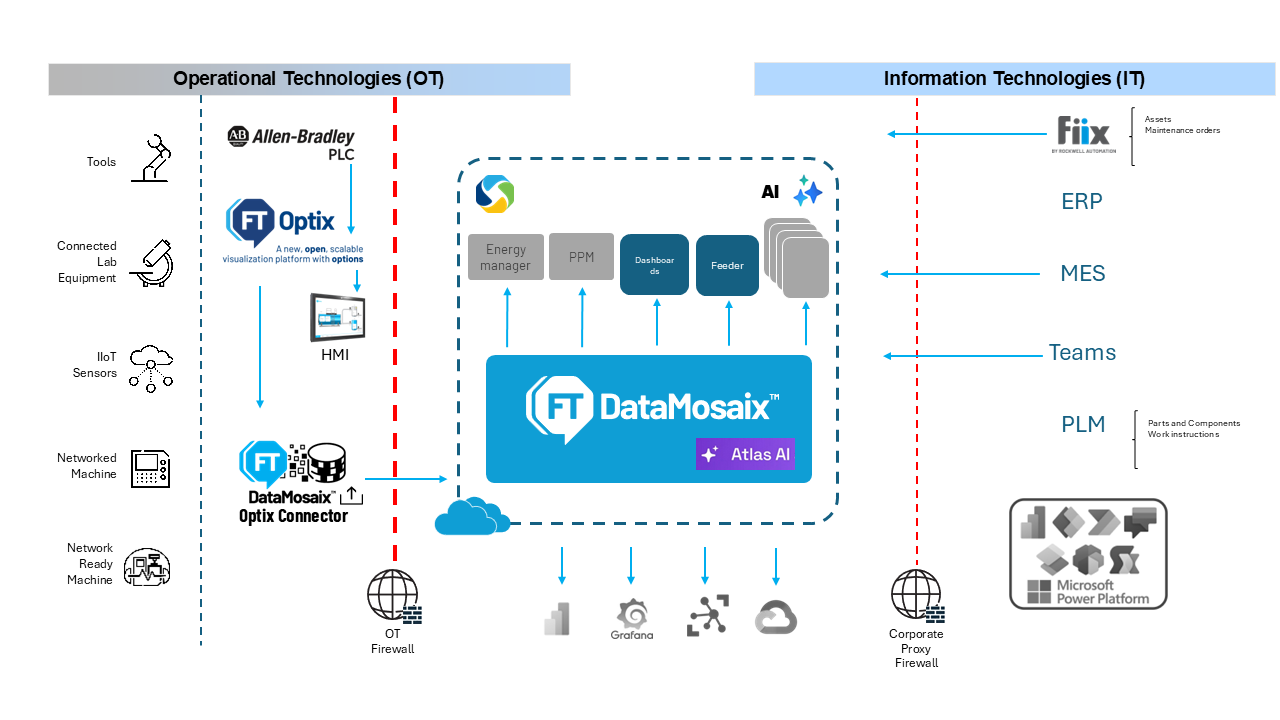
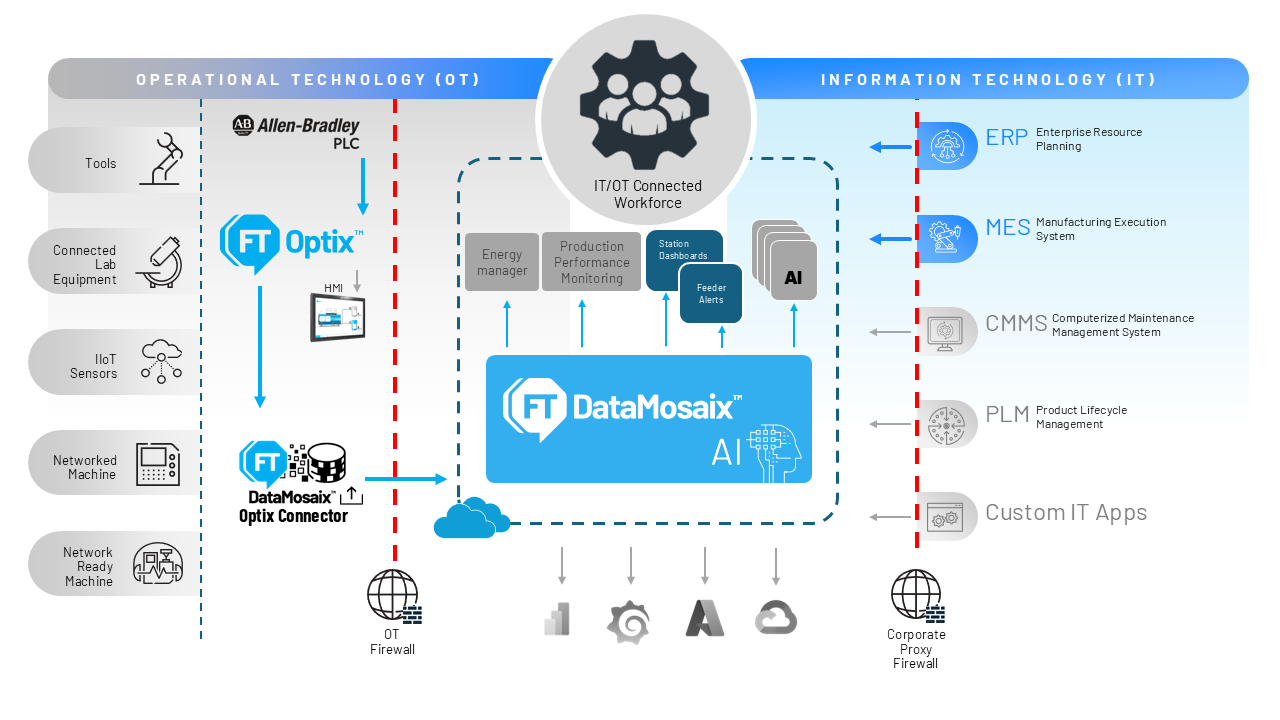
finished modal feature

diff --git a/src/components/LaunchpadSections/Overview2.tsx b/src/components/LaunchpadSections/Overview2.tsx
@@ -43,10 +43,50 @@ const ScalableDigitalSolutions: React.FC<{ title: string; imageSrc: string; poin
                 We started with a proof-of-value at Milwaukee’s 100C contactor line where we collected, analyzed and pushed data to the Cloud using OptixEdge Advanced Edge Gateway and FactoryTalk Optix.
             </> 
         },
-        2: { title: 'Enterprise IT/OT Convergence', description: 'Details about Enterprise IT/OT Convergence.' },
-        3: { title: 'AI Readiness Strategy', description: 'Details about AI Readiness Strategy.' },
-        4: { title: 'Industrial DataOps + AI Implementation', description: 'Details about Industrial DataOps + AI Implementation.' },
-        5: { title: 'Global Scale-Up', description: 'Details about Global Scale-Up.' },
+        2: { 
+            title: 'Enterprise IT/OT Convergence', 
+            description: <>
+                While edge devices provide insights for critical decision-making, OT data is often unstructured, fragmented, proprietary, and not easily integrated with IT enterprise architectures.
+                <br /><br />
+                Using FactoryTalk DataMosaix we brought IT, OT and engineering technology data together which enables the convergence of OT data from the factory floor with IT data in the cloud. This leads to data-driven decision-making that can impact the entire value chain.
+            </> 
+        },
+        3: { title: 'AI Readiness Strategy', description: <>
+            Manufacturers are finding that success in AI starts with
+            the right foundation-products with native AI and a
+            professional services team that has capabilities in
+            strategy, use case prioritization, data architecture,
+            implementation, and scalability. <br></br><br></br>
+
+            We enabled AI use cases by driving company-wide 
+            strategic alignment. <br></br><br></br>
+        </>
+         },
+        4: { title: 'Industrial DataOps + AI Implementation', description: 
+            <>
+            By using industrial internet of things (IIoT), machine learning, predictive
+            analytics and generative AI to collect and analyze data from production
+            systems, manufacturers can automate repetitive tasks, optimize resource and
+            energy usage, empower workers and improve productivity. <br></br>
+
+            We enabled moving toward autonomy with Industrial AI and data science by 
+            making data available, meaningful, useful and valuable. <br></br>
+            </>
+        },
+        5: { title: 'Global Scale-Up', description: 
+            <>
+            Recent research shows that just 25% of Industry 4.0 use cases are fully rolled
+            out or used extensively at manufacturers today. <br></br>
+
+            A true digital strategy and plan require a comprehensive, integrated yet
+            practical approach, combining new technology, skills and capabilities
+            supported by effective organizational change management. <br></br>
+
+            We leveraged our proven value-first approach, human-centric organizational
+            change management and our rapid results methodology to deliver successful
+            global scale-up of digital transformation initiatives like the 100C contactor line. <br></br>
+            </>
+         },
     };
 
     const closeModal = () => {
@@ -126,7 +166,7 @@ const ScalableDigitalSolutions: React.FC<{ title: string; imageSrc: string; poin
                         `}
                     </style>
                     <div className="
-                        relative w-full max-w-4xl max-h-[90%] mx-auto mb-28
+                        relative w-full max-w-7xl max-h-[100%] mx-auto ml-4 mr-4
                         transition-all duration-300
                         scale-100 opacity-100
                         animate-modal-in
@@ -149,28 +189,75 @@ const ScalableDigitalSolutions: React.FC<{ title: string; imageSrc: string; poin
                                     <span className="sr-only">Close modal</span>
                                 </button>
                             </div>
-                            <div className="p-6 md:p-8">
-                                {selectedPoint != 1 &&(
-                                    <div className="flex items-start gap-6 text-xl">
-                                        {circleData[selectedPoint as keyof typeof circleData].description}
-                                    </div>
-                                )}
+                            <div className="p-6">
                                 {selectedPoint === 0 && (
-                                    <div className="mt-4">
+                                    <div>
+                                        <div className="flex items-start gap-6 lg:text-xl xl:text-2xl 2xl:text-3xl">
+                                            {circleData[selectedPoint as keyof typeof circleData].description}
+                                        </div>
                                         <img src="/discover.png" alt="Discover Illustration" className="max-w-full h-auto" />
                                     </div>
                                 )}
                                 {selectedPoint === 1 && (
-                                    <div className="flex flex-row items-center mt-4">
+                                    <div className="flex flex-row items-center">
                                         <div className="w-3/4">
-                                            <p className="flex items-start gap-6 text-xl text-left">
+                                            <div className="flex items-start lg:text-xl xl:text-2xl 2xl:text-3xl text-left">
                                                 {circleData[selectedPoint as keyof typeof circleData].description}
-                                            </p>
+                                            </div>
                                         </div>
                                         <div className="w-1/4 flex justify-center">
                                             <img src="/pop1.png" alt="Enable Data Illustration" className="max-w-full h-auto" />
                                         </div>
                                     </div>
+                                )}
+                                {selectedPoint === 2 && (
+                                    <div className="flex flex-row items-center">
+                                        <div className="w-3/4">
+                                            <div className="flex items-start lg:text-xl xl:text-2xl 2xl:text-3xl text-left">
+                                                {circleData[selectedPoint as keyof typeof circleData].description}
+                                            </div>
+                                        </div>
+                                        <div className="w-1/4 flex justify-center">
+                                            <img src="/enterprise.png" alt="Enterprise Illustration" className="max-w-full h-auto" />
+                                        </div>
+                                    </div>
+                                )}
+                                {selectedPoint === 3 && (
+                                    <div className="flex flex-row items-center">
+                                        <div className="w-3/4">
+                                            <div className="flex items-start lg:text-xl xl:text-2xl 2xl:text-3xl text-left">
+                                                {circleData[selectedPoint as keyof typeof circleData].description}
+                                            </div>
+                                        </div>
+                                        <div className="w-1/4 flex justify-center">
+                                            <img src="/ai.png" alt="AI Illustration" className="max-w-full h-auto" />
+                                        </div>
+                                    </div>
+                                )}
+                                {selectedPoint === 4 && (
+                                    <div>
+                                        <div className="flex items-start gap-6 lg:text-xl xl:text-2xl 2xl:text-3xl">
+                                            {circleData[selectedPoint as keyof typeof circleData].description}
+                                        </div>
+                                        <img src="/industrial.png" alt="Industrial DataOps + AI Illustration" className="max-w-full h-auto" />
+                                    </div>
+                                )}
+                                {selectedPoint === 5 && (
+                                    <>
+                                        <div className="flex flex-row items-center">
+                                            <div className="w-3/4">
+                                                <div className="flex items-start lg:text-base xl:text-lg 2xl:text-2xl text-left">
+                                                    {circleData[selectedPoint as keyof typeof circleData].description}
+                                                </div>
+                                            </div>
+                                            <div className="w-1/4 flex justify-center">
+                                                <img src="/human.png" alt="Human centered approach Illustration" className="max-w-full h-auto" />
+                                            </div>
+                                        </div>
+                                        <div className="flex justify-center w-2/4 mx-auto">
+                                            <img src="/global.png" alt="Global Scale-Up Illustration" className="max-w-full h-auto mt-4" />
+                                        </div>
+                                    </>
                                 )}
                             </div>
                         </div>

diff --git a/src/components/Footer/Footer.tsx b/src/components/Footer/Footer.tsx
@@ -171,7 +171,7 @@ const Footer: React.FC<FooterProps> = ({
             </div>
             <div className="w-full h-full flex items-center justify-center bg-gray-50 p-2 sm:p-4">
               <img 
-                src="/map.png" 
+                src="/arch.png" 
                 alt="Architecture Map" 
                 className="max-w-full max-h-full object-contain"
               />
